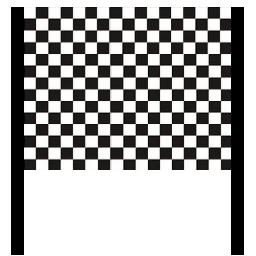
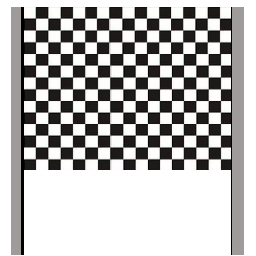
- changed images for start and finish

Changed region(s): [[0.9062, 0.0, 0.9688, 1.0], [0.0312, 0.0312, 0.0938, 1.0]]

diff --git a/lib/providers/rest_api/onsite_state_provider.dart b/lib/providers/rest_api/onsite_state_provider.dart
@@ -315,6 +315,7 @@ class BgIsOnSite extends _$BgIsOnSite {
             id: Random().nextInt(2 ^ 8),
             text:  Localize.current.bgTodayNotOnSite,
             title: 'Bladeguard am Startpunkt');
+        HiveSettingsDB.setBladeguardLastSetOnsite( DateTime.now());
       }
     } else {
       var location = await LocationProvider.instance.getLocation();
@@ -340,13 +341,16 @@ class BgIsOnSite extends _$BgIsOnSite {
   }
 
   Future<bool> _sendToServer(bool isOnsite) async {
+    BnLog.info(text: 'SendOnsite to Server $isOnsite',methodName: '_sendToServer',className: toString());
     final repo = ref.read(bladeGuardApiRepositoryProvider);
     var res = await repo.setBladeguardOnSite(isOnsite);
     if (res.errorDescription != null) {
       state = AsyncValue.error(res.errorDescription!, StackTrace.current);
+      BnLog.info(text: 'SendOnsite to Server $isOnsite failed',methodName: '_sendToServer',className: toString());
       return false;
     } else {
       state = AsyncValue.data(res.result!);
+      BnLog.info(text: 'SendOnsite to Server $isOnsite successful ',methodName: '_sendToServer',className: toString());
       return true;
     }
   }

diff --git a/lib/providers/location_provider.dart b/lib/providers/location_provider.dart
@@ -1414,9 +1414,6 @@ class LocationProvider with ChangeNotifier {
       if (diff < minTimeDiff || eventIsActive) {
         return;
       }
-
-      HiveSettingsDB.setBladeguardLastSetOnsite(now);
-      BnLog.info(text: '[geofence] ${event.identifier}, ${event.action}');
       final repo = ProviderContainer().read(bladeGuardApiRepositoryProvider);
       var res = await repo.checkBladeguardIsOnSite();
       //is is already onsite do nothing
